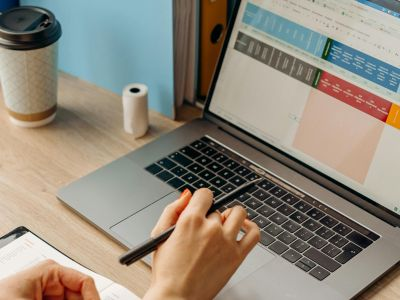
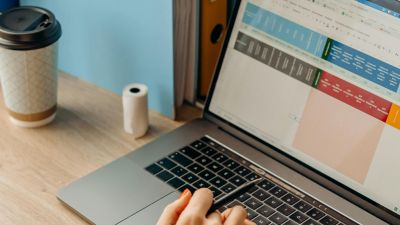
add desktop layout

diff --git a/style.css b/style.css
@@ -74,7 +74,7 @@ h2 {
 }
 
 .about__toolbar {
-  margin-top: 1em;
+  margin-top: 2em;
   gap: 2em;
 }
 
@@ -128,7 +128,7 @@ p {
 .card-toolbar {
   grid-area: links;
   justify-content: end;
-  gap: 0;
+  gap: 1em;
   margin-top: 0;
 }
 
@@ -175,7 +175,7 @@ p {
 
 .footer {
   margin: 0;
-  background-color: #128fb1;
+  background-color: #10809f;
   display: flex;
   justify-content: space-between;
   align-items: center;
@@ -195,7 +195,7 @@ p {
 .footer__phone,
 .footer__mail {
   display: flex;
-  gap: 1em;
+  gap: 0.5em;
 }
 
 .footer__toolbar {
@@ -208,11 +208,10 @@ p {
   .content {
     background-image: linear-gradient(
       150deg,
-      #128fb1 0%,
-      #128fb1 10%,
+      #10809f 0%,
+      #10809f 10%,
       #ffffff 0%
     );
-    filter: drop-shadow(30px 10px 4px #3a3a3a);
   }
 
   h2 {
@@ -293,11 +292,10 @@ p {
   .content {
     background-image: linear-gradient(
       150deg,
-      #128fb1 0%,
-      #128fb1 20%,
+      #10809f 0%,
+      #10809f 20%,
       #ffffff 0%
     );
-    filter: drop-shadow(30px 10px 4px #3a3a3a);
   }
 
   .about {
@@ -349,17 +347,73 @@ p {
     gap: 2em;
   }
 
-  .footer__toolbar {
-    margin-bottom: 6em;
-  }
-
   .footer__body,
   .footer__image {
     margin: 2em;
   }
 
+  .footer__body {
+    min-width: 0;
+  }
+}
+
+/* Desktop Layout */
+@media (width >= 1000px) {
+  .content {
+    background-image: linear-gradient(
+      170deg,
+      #10809f 0%,
+      #10809f 20%,
+      #ffffff 0%
+    );
+  }
+
+  .about {
+    display: flex;
+    align-items: center;
+  }
+
+  .avatar__name {
+    position: absolute;
+    bottom: 5px;
+    left: 5px;
+  }
+
+  .avatar {
+    position: relative;
+    flex-shrink: 0;
+  }
+
+  .about__body {
+    display: flex;
+    flex-direction: column;
+    gap: 2em;
+    min-width: 0;
+    background-color: white;
+    padding: 2em;
+    box-shadow: 1px 1px 2px rgba(0, 0, 0, 0.462);
+  }
+
+  .about__toolbar {
+    justify-content: end;
+  }
+
+  .footer {
+    flex-direction: row;
+    align-items: center;
+    gap: 2em;
+  }
+
+  .footer__body,
   .footer__image {
-    flex-shrink: 1;
-    object-fit: cover;
+    margin: 4em;
+  }
+
+  .footer__body {
+    align-self: flex-start;
+  }
+
+  .project-list {
+    grid-template-columns: repeat(auto-fill, minmax(400px, 1fr));
   }
 }

diff --git a/index.html b/index.html
@@ -291,9 +291,9 @@
           />
           <source
             media="(width >= 1000px)"
-            srcset="./assets/img/footer-400w.jpg"
+            srcset="./assets/img/footer-800w.jpg"
           />
-          <img src="./assets/img/footer-500w.jpg" alt="avatar" width="500px" />
+          <img src="./assets/img/footer-500w.jpg" alt="avatar" />
         </picture>
       </footer>
     </div>
